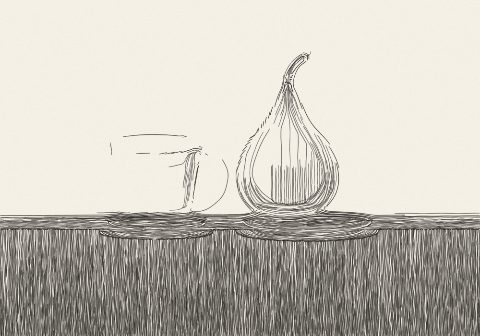
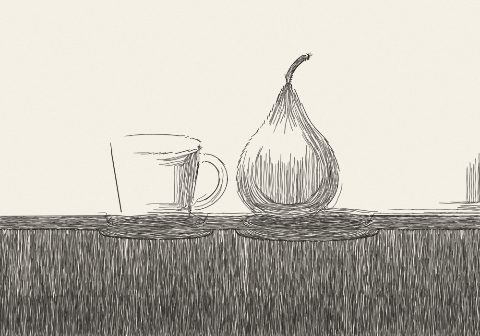
로컬 엔진: 실제 사진(DAP 작업 영상에서 잘라낸 호수·숲·정자)으로 펜·담채 재조정
- 담채: 젖은 붓 가장자리((1−d²)²), 4층·큰 붓·옅게 겹치기, 마른 물감 고임(pigmentEdges), 펜은 ink≥30 일 때만,
  윤곽은 아주 센 경계만 — DAP Watercolor Wet on Wet 결과에 근접
- 윤곽: 뭉갠 밝기 경계 항 제거 (실사에서 잎 덩어리마다 굵은 벌레 윤곽). 색 경계 나눔 완화, 색상 경계 가중
- 잔결 안의 획: 억제 전 지역 방향(raw)이 확실하면 그 방향, 아니면 기준각 주변 무작위; 길이는 선 굵기×14 이하 —
  긴 사선 줄(풀밭)과 방향장 추종 긴 획(벌레) 둘 다 피함. 전체 획 길이 상한 짧은 변 14%
- 목표 어둡기 0.06+0.84·d^1.1, 잔결 감산 0.22 — 나무 덩어리의 톤 차가 살아야 장면이 읽힘. 고리선은 옅고 드물게
- 갤러리 예시 그림 재생성, CLAUDE.md 갱신

Claude-Session: https://claude.ai/code/session_01Hvnc9GgokccTnGmXxLxTkb

diff --git a/src/render.ts b/src/render.ts
@@ -209,7 +209,7 @@ function manualField(guides: DirectionGuide[], radiusPct: number, w: number, h: 
 }
 
 /** aniso: 넓은 범위(반경 28)의 방향 확실성 — 잔결이라도 물결처럼 한 방향으로 흐르면 높다 (잎 뭉치는 낮다) */
-interface Field { tx: Float32Array; ty: Float32Array; coh: Float32Array; man: Float32Array; aniso: Float32Array }
+interface Field { tx: Float32Array; ty: Float32Array; coh: Float32Array; man: Float32Array; aniso: Float32Array; raw: Float32Array }
 
 /**
  * 면의 방향장 (DAP 의 Feature Follow): 세 채널 구조 텐서로 각 화소 주변의 지배적 경계 방향을 구한다.
@@ -222,13 +222,14 @@ function orientationField(grads: Array<{ gx: Float32Array; gy: Float32Array }>, 
   for (const { gx, gy } of grads) for (let i = 0; i < N; i++) { jxx[i] += gx[i] * gx[i]; jyy[i] += gy[i] * gy[i]; jxy[i] += gx[i] * gy[i]; }
   const fine = [boxBlur(jxx, w, h, 7), boxBlur(jyy, w, h, 7), boxBlur(jxy, w, h, 7)];
   const coarse = [boxBlur(jxx, w, h, 28), boxBlur(jyy, w, h, 28), boxBlur(jxy, w, h, 28)];
-  const tx = new Float32Array(N), ty = new Float32Array(N), coh = new Float32Array(N), man = new Float32Array(N), aniso = new Float32Array(N);
+  const tx = new Float32Array(N), ty = new Float32Array(N), coh = new Float32Array(N), man = new Float32Array(N), aniso = new Float32Array(N), raw = new Float32Array(N);
   for (let i = 0; i < N; i++) {
     const ca = coarse[0][i] - coarse[1][i], cb = 2 * coarse[2][i], ce = coarse[0][i] + coarse[1][i];
     const cc = ce > 0.004 ? Math.sqrt(ca * ca + cb * cb) / (ce + 1e-4) : 0;
     aniso[i] = cc;
     let a = fine[0][i] - fine[1][i], b = 2 * fine[2][i], e = fine[0][i] + fine[1][i];
     let c = e > 0.02 ? Math.sqrt(a * a + b * b) / (e + 1e-4) : 0;
+    raw[i] = c; // 잔결 억제 전의 지역 확실성 (잎 뭉치 안의 짧은 획 방향에 씀)
     if (c < 0.2) { a = ca; b = cb; c = cc * 0.9; }
     let th = 0.5 * Math.atan2(b, a) + Math.PI / 2; // 그래디언트에 수직 = 경계를 따라가는 방향
     // 잔결이라도 물결·풀처럼 넓게 한 방향으로 흐르면(aniso) 방향을 살리고, 잎 뭉치처럼 방향이 없으면 기준 각도로 돌아간다
@@ -244,7 +245,7 @@ function orientationField(grads: Array<{ gx: Float32Array; gy: Float32Array }>, 
     tx[i] = Math.cos(th); ty[i] = Math.sin(th);
     coh[i] = c;
   }
-  return { tx, ty, coh, man, aniso };
+  return { tx, ty, coh, man, aniso, raw };
 }
 
 /** 1차원 부드러운 난수 (-1~1): 가장자리 흐림의 불규칙한 경계에 씀 */
@@ -308,7 +309,8 @@ class Canvas {
     for (let y = y0; y <= y1; y++) for (let x = x0; x <= x1; x++) {
       const d = Math.hypot(x + 0.5 - cx, y + 0.5 - cy) / r;
       if (d >= 1) continue;
-      const c = d < 0.6 ? 1 : 1 - (d - 0.6) / 0.4;
+      const q = 1 - d * d;
+      const c = q * q; // 젖은 붓: 가운데 진하고 가장자리로 부드럽게 번진다
       const i = y * w + x;
       if (sw[i] === 0) this.touched.push(i);
       if (c > sw[i]) sw[i] = c;
@@ -377,8 +379,12 @@ interface Ctx {
 function dirAt(c: Ctx, i: number, rot: number): [number, number] {
   const wf = Math.max(c.ff * c.field.coh[i], c.field.man[i]);
   let th: number;
-  // 잔결 영역의 지역 방향은 소음이라 더 확실할 때만 따른다 (아니면 획이 벌레처럼 꿈틀거린다)
-  if (wf < 0.12 + 0.5 * c.texture[i]) th = c.base;
+  const tex = c.texture[i];
+  if (tex > 0.5 && c.field.man[i] < 0.1) {
+    // 잔결(잎 뭉치): 짧은 획이 잎 무리의 지역 방향을 따르면 잎 질감이 된다. 방향이 없으면 기준 각도 주변에서 흩어진다
+    const r = c.field.raw[i];
+    th = r > 0.35 ? Math.atan2(c.field.ty[i], c.field.tx[i]) : c.base + (c.rng() - 0.5) * 1.2;
+  } else if (wf < 0.12) th = c.base;
   else {
     const a2 = 2 * Math.atan2(c.field.ty[i], c.field.tx[i]), b2 = 2 * c.base;
     th = 0.5 * Math.atan2(wf * Math.sin(a2) + (1 - wf) * Math.sin(b2), wf * Math.cos(a2) + (1 - wf) * Math.cos(b2));
@@ -417,7 +423,7 @@ function penStroke(c: Ctx, ref: Float32Array, x0: number, y0: number, L: number,
       cv.dot(x - dy * wob, y + dx * wob, r * (0.65 + 0.35 * taper) * pressure, 0.75 + 0.25 * taper);
       // 방향장을 조금씩 따라감 (부호는 이전 방향과 맞춤)
       const wf = Math.max(c.ff * c.field.coh[i], c.field.man[i]);
-      if (wf > 0.12 + 0.5 * c.texture[i]) {
+      if (wf > 0.12 && c.texture[i] < 0.5) {
         let [fx, fy] = dirAt(c, i, rot);
         if (fx * dx + fy * dy < 0) { fx = -fx; fy = -fy; }
         const k = 0.12 + 0.2 * wf;
@@ -451,7 +457,7 @@ function loopStroke(c: Ctx, ref: Float32Array, x0: number, y0: number, R: number
     if (ref[i] < 0.02) continue;
     cv.dot(px, py, lw * 0.45, 0.9);
   }
-  cv.end(alphaFor(c, D0) * 0.8, c.colorAt(i0));
+  cv.end(alphaFor(c, D0) * 0.6, c.colorAt(i0));
 }
 
 /** 스크리블: 굽은 정도가 무작위인 고리 선이 목표 안에서만 맴돈다 */
@@ -483,7 +489,6 @@ function scribbleStroke(c: Ctx, ref: Float32Array, x0: number, y0: number, L: nu
  */
 function edgePass(c: Ctx, mag: Float32Array, mass: { mag: Float32Array; gx: Float32Array; gy: Float32Array }, chroma: Float32Array, th: number, widthMul: number, alphaMul: number) {
   const { cv, w, h, N, rng, lw, texture, field } = c;
-  const massMag = mass.mag;
   // 경계 접선: 잔결 영역에서는 지역 방향장이 소음이므로 뭉갠 밝기의 그라디언트에 수직인 방향을 쓴다
   const tangent = (i: number): [number, number] => {
     if (texture[i] < 0.4) return [field.tx[i], field.ty[i]];
@@ -498,7 +503,7 @@ function edgePass(c: Ctx, mag: Float32Array, mass: { mag: Float32Array; gx: Floa
   const maxLen = Math.min(w, h) * 0.35;
   const r = (lw * widthMul) / 2;
   // 잔결(나뭇잎)에서는 센 경계만 남기고, 대신 뭉갠 밝기의 경계(잎 뭉치의 덩어리 윤곽)를 살린다 — 리천 드로잉의 뭉게구름 같은 나무 윤곽
-  const strength = (i: number) => Math.max(mag[i] / (1 + 4 * texture[i]), massMag[i] * texture[i] * 1.6, chroma[i] * 1.4);
+  const strength = (i: number) => Math.max(mag[i] / (1 + 2.2 * texture[i]), chroma[i] * 1.3 / (1 + 1.2 * texture[i]));
   const mark = (x: number, y: number) => {
     const m = Math.max(1, Math.round(g * 0.5));
     for (let yy = Math.max(0, y - m); yy <= Math.min(h - 1, y + m); yy++) for (let xx = Math.max(0, x - m); xx <= Math.min(w - 1, x + m); xx++) done[yy * w + xx] = sid;
@@ -604,11 +609,11 @@ function sweep(c: Ctx, ref: Float32Array, R: number, sw: Sweep, T: number, L: nu
     }
     if (sw.kind === 'scribble') { scribbleStroke(c, ref, x0, y0, len * 1.6); continue; }
     // pen 붓: 잔결(나뭇잎)은 획 대신 고리 선
-    if (c.p.brush === 'pen' && !sw.rot && c.texture[i0] > 0.45 && c.field.aniso[i0] < 0.45 && rng() < c.texture[i0] + 0.2) { loopStroke(c, ref, x0, y0, R); continue; }
-    let Lc = len;
+    if (c.p.brush === 'pen' && !sw.rot && c.texture[i0] > 0.45 && c.field.aniso[i0] < 0.45 && rng() < c.texture[i0] * 0.8) { loopStroke(c, ref, x0, y0, R); continue; }
+    let Lc = Math.min(len, Math.min(w, h) * 0.14);
     // 방향이 없는 평탄한 곳(하늘·벽)은 길게. 잔결 영역은 짧게 (긴 줄이 생기면 풀밭처럼 보인다)
     if (c.field.coh[i0] < 0.15 && c.field.man[i0] < 0.1 && c.texture[i0] < 0.3) Lc *= 1.7;
-    else if (c.texture[i0] > 0.5) Lc *= 0.6;
+    else if (c.texture[i0] > 0.5) Lc = Math.min(Lc * 0.35, lw * 14);
     penStroke(c, ref, x0, y0, Lc, sw.rot ?? 0);
   }
 }
@@ -671,7 +676,7 @@ function washSweep(c: Ctx, want: Float32Array, R: number, T: number, onTick?: (f
       }
       x += dx * step; y += dy * step;
     }
-    cv.end(0.3 + 0.12 * (1 - c.rnd) + rng() * 0.12 * c.rnd, col, false);
+    cv.end(0.42 + 0.1 * (1 - c.rnd) + rng() * 0.15 * c.rnd, col, false);
   }
 }
 
@@ -704,6 +709,21 @@ function washTarget(img: RawImage, lum: Float32Array, white: number, w: number, 
     want[o] = paper[0] * (1 - op * (1 - tr)); want[o + 1] = paper[1] * (1 - op * (1 - tg)); want[o + 2] = paper[2] * (1 - op * (1 - tb));
   }
   return want;
+}
+
+/** 젖은 담채가 마르면서 경계에 안료가 고이는 효과: 캔버스 밝기의 그라디언트가 큰 곳을 조금 어둡게 */
+function pigmentEdges(cv: Canvas, amount: number) {
+  const { w, h } = cv;
+  const N = w * h;
+  const lum = new Float32Array(N);
+  for (let i = 0; i < N; i++) lum[i] = (0.299 * cv.rgb[i * 3] + 0.587 * cv.rgb[i * 3 + 1] + 0.114 * cv.rgb[i * 3 + 2]) / 255;
+  const { mag } = sobel(boxBlur(lum, w, h, 1), w, h);
+  for (let i = 0; i < N; i++) {
+    const k = clamp(mag[i] * 2.5, 0, 1) * amount * (1 - lum[i] * 0.5);
+    if (k <= 0.005) continue;
+    const o = i * 3;
+    cv.rgb[o] *= 1 - k; cv.rgb[o + 1] *= 1 - k; cv.rgb[o + 2] *= 1 - k;
+  }
 }
 
 /** 가장자리를 미완성처럼 흐림: 불규칙한 경계 밖으로 갈수록 종이로 되돌린다 */
@@ -767,7 +787,7 @@ export function renderDrawing(img: RawImage, opts: RenderOpts): RawImage {
     const L = smooth[i];
     if (L >= white) continue;
     const d = (white - L) / white;
-    target[i] = (0.07 + 0.75 * Math.pow(d, 1.35)) * (1 - texture[i] * 0.5);
+    target[i] = (0.06 + 0.84 * Math.pow(d, 1.1)) * (1 - texture[i] * 0.22);
   }
 
   const paper = paperFor(opts.color, p);
@@ -812,10 +832,14 @@ export function renderDrawing(img: RawImage, opts: RenderOpts): RawImage {
       washSweep(c, want, R, 4 + 10 * (1 - acc), (f) => report(k, f));
       report(k, 1, true);
     }
-    // 펜: 가장 어두운 곳에만 성긴 획
-    const ref = boxBlur(target, w, h, 1);
-    const R = sizes[passes - 1];
-    sweep(c, ref, R, { rot: 0, minRef: 0.5, gMul: 1.6 }, T + 0.05, R * 3);
+    // 물감이 마르며 가장자리에 고이는 안료: 캔버스 밝기의 경계를 조금 어둡게
+    pigmentEdges(cv, 0.22);
+    // 펜: 잉크 농도가 있을 때만 가장 어두운 곳에 성긴 획 (순수 수채는 ink 0)
+    if (p.ink >= 30) {
+      const ref = boxBlur(target, w, h, 1);
+      const R = sizes[passes - 1];
+      sweep(c, ref, R, { rot: 0, minRef: 0.6, gMul: 1.8 }, T + 0.08, R * 3);
+    }
   } else {
     const sweeps = sweepsFor(p);
     for (let k = 0; k < passes; k++) {
@@ -835,7 +859,7 @@ export function renderDrawing(img: RawImage, opts: RenderOpts): RawImage {
   // 3) 윤곽선: 색 경계를 따라가는 획
   const edges = clamp(p.edges, 0, 100);
   if (edges > 0) {
-    const th = (0.30 - 0.20 * edges / 100) * (p.brush === 'wash' ? 1.15 : 1);
+    const th = (0.30 - 0.20 * edges / 100) * (p.brush === 'wash' ? 1.5 : 1);
     const widthMul = p.brush === 'contour' ? 1.15 : 1;
     const mass = sobel(boxBlur(lum, w, h, Math.max(3, Math.round(minSide / 60))), w, h);
     edgePass(c, mag, mass, chromaEdgeMag(img, w, h), th, widthMul, p.brush === 'contour' ? 1 : 0.9);

diff --git a/src/types.ts b/src/types.ts
@@ -109,7 +109,7 @@ export const PAINT_FOR_STYLE: Record<PenStyle, PaintProfile> = {
   ghibli: { ...CLASSIC_PAINT, passes: 3, brushSize: 55, detail: 60, accuracy: 50, strokeLength: 65, featureFollow: 60, baseAngle: 30, randomness: 20, lineWidth: 1.4, ink: 70, paperKeep: 60, edges: 65 },
   webtoon: { ...CLASSIC_PAINT, brush: 'contour', passes: 3, brushSize: 50, detail: 65, accuracy: 55, strokeLength: 60, featureFollow: 60, baseAngle: 45, randomness: 10, lineWidth: 1.8, ink: 90, paperKeep: 62, edges: 95 },
   manga: { ...CLASSIC_PAINT, passes: 4, brushSize: 40, detail: 90, accuracy: 70, strokeLength: 60, featureFollow: 20, baseAngle: 45, randomness: 5, lineWidth: 1, ink: 90, paperKeep: 55, edges: 85 },
-  watercolor: { ...RICHEON_PAINT, brush: 'wash', passes: 3, brushSize: 60, detail: 60, accuracy: 60, strokeLength: 60, featureFollow: 70, baseAngle: 40, randomness: 35, ink: 75, paperKeep: 55, edges: 55, vignette: 0 },
+  watercolor: { ...RICHEON_PAINT, brush: 'wash', passes: 4, brushSize: 75, detail: 70, accuracy: 65, strokeLength: 50, featureFollow: 70, baseAngle: 40, randomness: 35, ink: 45, paperKeep: 60, edges: 35, vignette: 25 },
 };
 
 /** 숙련도별로 화풍 설정을 단순화한다 (견본이 없을 때 출발점). 초급은 층·세밀함을 줄이고 굵은 펜으로 */
